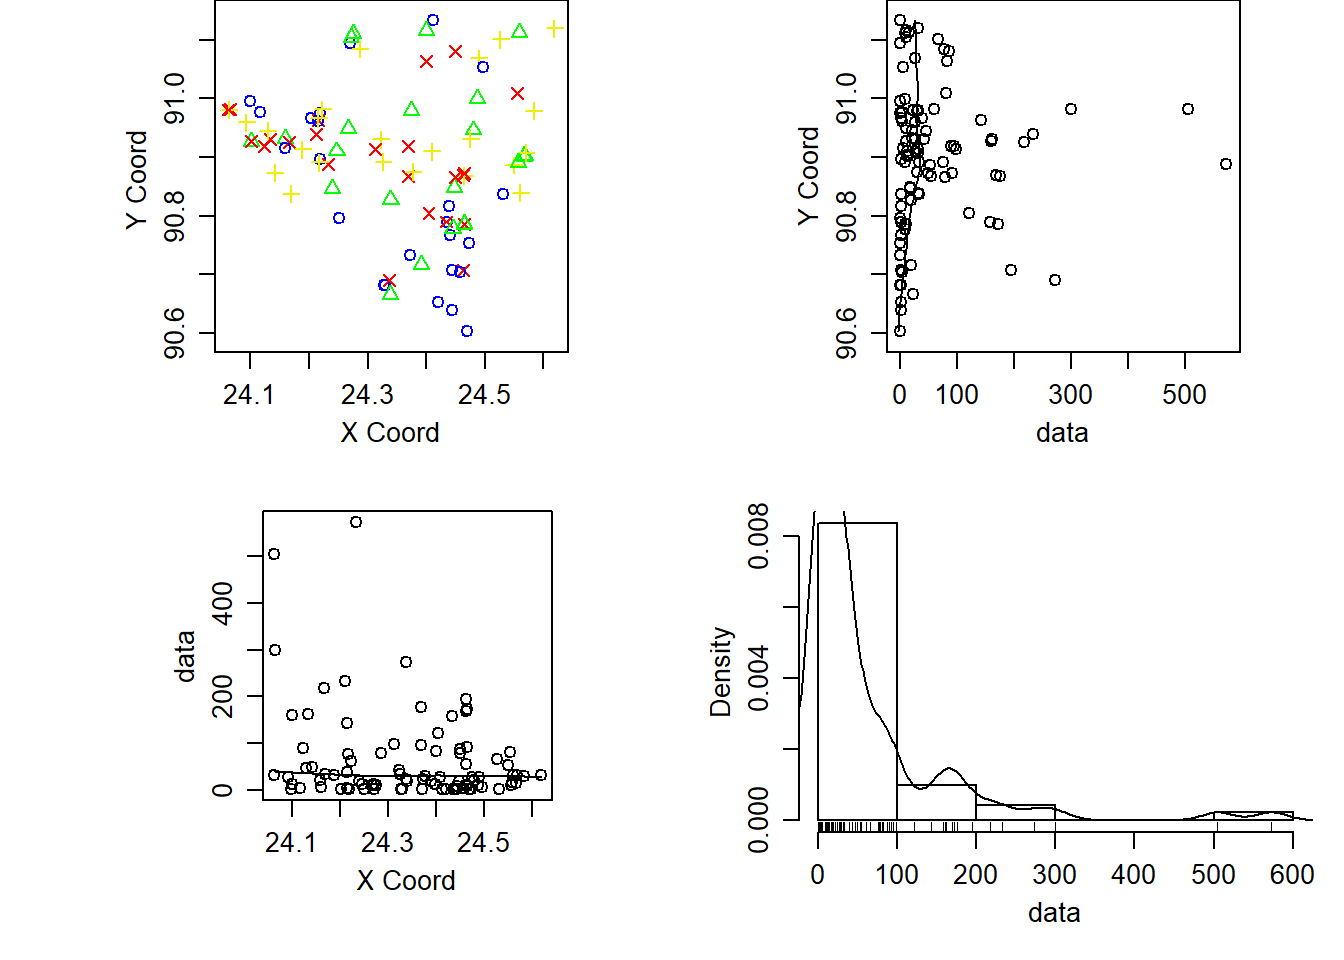
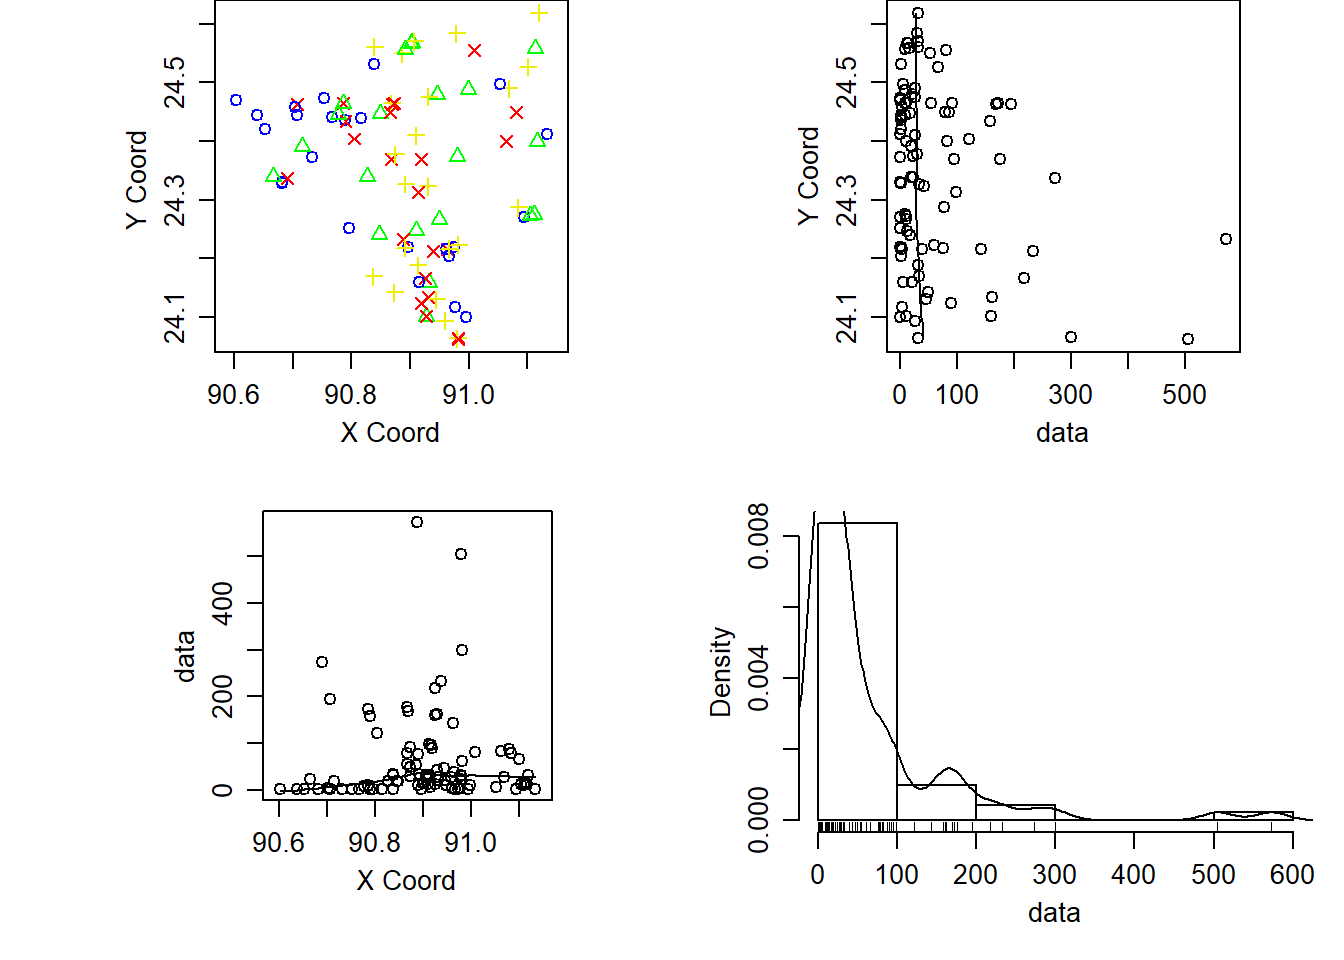
adjust shape of map

diff --git a/2019/02/08/eda/index.html b/2019/02/08/eda/index.html
@@ -195,7 +195,7 @@ $(document).ready(function(){
     
 
     <h4><a href="/2019/02/08/eda/">EDA - in progress</a></h4>
-    <h5>February 8, 2019 - 4 minutes</h5>
+    <h5>February 8, 2019 - 5 minutes</h5>
     <h5></h5>
 
     
@@ -282,19 +282,20 @@ kishoreganj &lt;- district$Kishoreganj</code></pre>
 <p>We first do a quick data display with exploratory checks on spatial patterns, trends in the coordinates, and distribution of the data. We are using the default plot for a geodata object in <code>geoR::plot.geodata</code>. The lowess argument adds a smooth line to the upper right scatter plot (data value vs y value) and to the lower left scatter plot (x value vs data value). The upper left plot shows color coded data quartile at the location of the data, fefault colors for the quartiles in the first plot are (from 1st to 4th) <span style="color:blue">blue</span>, <span style="color:green">green</span>, <span style="color:gold">yellow</span> and <span style="color:red">red</span>.</p>
 <p>Now, we extract useful information from the dataframe and convert them into <code>geodata</code> and <code>plot</code>.</p>
 <pre class="r"><code>library(geoR)
-bang &lt;- as.geodata(noncensor[,c(1,2,6)])</code></pre>
+# use the order c(2,1,6) to consider the shape of bangladesh 
+bang &lt;- as.geodata(noncensor[,c(2,1,6)])</code></pre>
 <pre><code>## as.geodata: 81 replicated data locations found. 
 ##  Consider using jitterDupCoords() for jittering replicated locations. 
 ## WARNING: there are data at coincident or very closed locations, some of the geoR&#39;s functions may not work.
 ##  Use function dup.coords() to locate duplicated coordinates.
 ##  Consider using jitterDupCoords() for jittering replicated locations</code></pre>
-<pre class="r"><code>com &lt;- as.geodata(comilla[,c(1,2,6)])</code></pre>
+<pre class="r"><code>com &lt;- as.geodata(comilla[,c(2,1,6)])</code></pre>
 <pre><code>## as.geodata: 8 replicated data locations found. 
 ##  Consider using jitterDupCoords() for jittering replicated locations. 
 ## WARNING: there are data at coincident or very closed locations, some of the geoR&#39;s functions may not work.
 ##  Use function dup.coords() to locate duplicated coordinates.
 ##  Consider using jitterDupCoords() for jittering replicated locations</code></pre>
-<pre class="r"><code>kis &lt;- as.geodata(kishoreganj[,c(1,2,6)])
+<pre class="r"><code>kis &lt;- as.geodata(kishoreganj[,c(2,1,6)])
 
 plot(bang, lowess = TRUE)</code></pre>
 <p><img src="/post/2019-02-08-eda_files/figure-html/geor_plot-1.png" width="672" /></p>

diff --git a/post/index.html b/post/index.html
@@ -201,7 +201,7 @@ $(document).ready(function(){
     
 
     <h4><a href="/2019/02/08/eda/">EDA - in progress</a></h4>
-    <h5>February 8, 2019 - 4 minutes</h5>
+    <h5>February 8, 2019 - 5 minutes</h5>
     <h5></h5>
     
         <a href="/categories/statistics">
